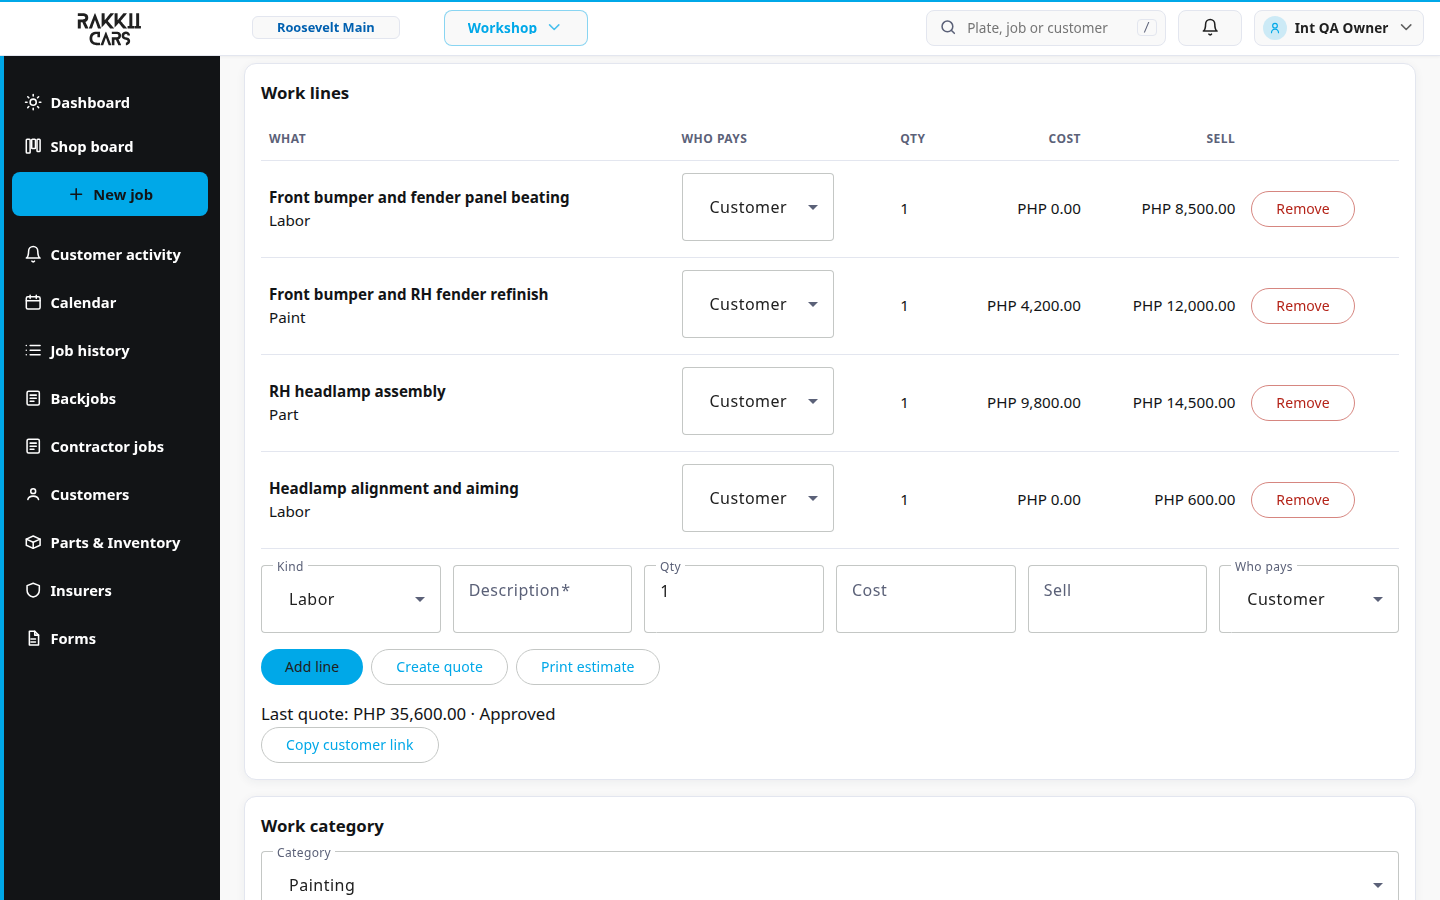
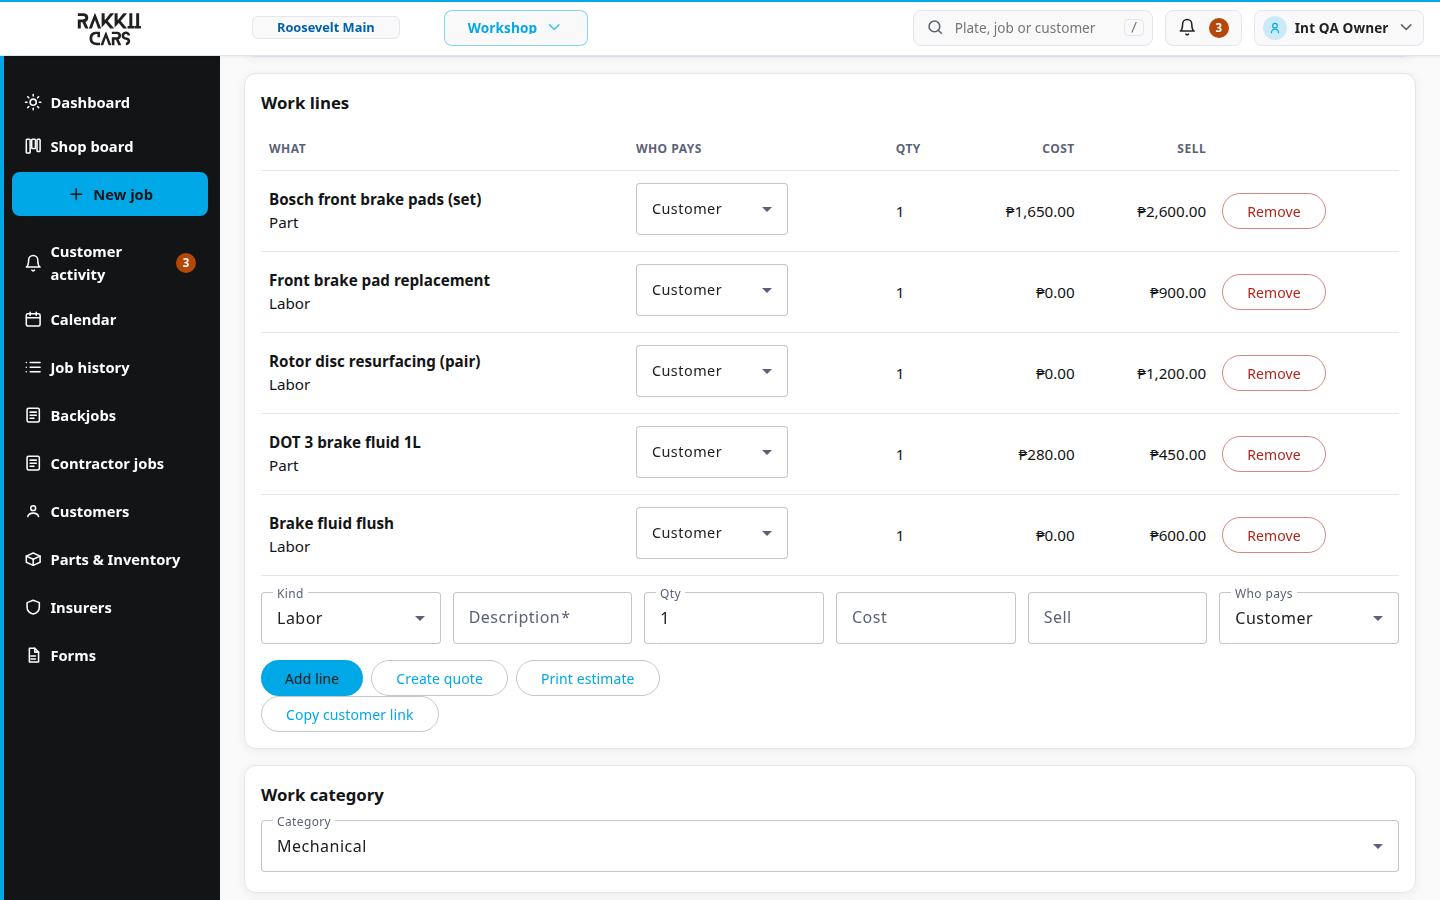
docs: retake screenshots for the Oct 31 changes
- 10 retaken on int with the latest ops build: dashboard, shop board,
  Parts stock, under-repair header, work lines, Pay money and down
  payment, Release checklist, insurance Release tab, technician job
  view and the phone QC photo tiles.
- 4 new: Job history (Done / Released · not done, Progress), a released
  job's status, Not done yet and steps, the More papers menu, and the
  board's What's left pop-up.
- Captions and the screenshot checklist match; Job history's filter is
  described as the Status dropdown it is.

diff --git a/docs/public/screenshots/README.md b/docs/public/screenshots/README.md
@@ -15,14 +15,15 @@ To add or refresh a screenshot:
 - [x] `01-welcome-and-navigation/01-sign-in.png` — Rakkii Ops sign-in page (Email, Password, Sign in).
 - [x] `01-welcome-and-navigation/02-hub-switcher.png` — hub switcher open, showing Workshop, Sales, Finance, HR, Admin, Me.
 - [x] `01-welcome-and-navigation/03-branch-switcher.png` — Shop settings with the Shop picker (the top-bar shop switcher appears only when you own more than one shop).
+- [x] `01-welcome-and-navigation/04-job-history.png` — Job history with Done and Released · not done labels and the Progress column.
 
 ## 02-technician-daily-guide
 
 - [x] `02-technician-daily-guide/01-clock-in.png` — Time clock with Clock in and Today's punches.
 - [x] `02-technician-daily-guide/02-my-jobs.png` — My jobs with "Assigned to me" and "Other jobs".
-- [x] `02-technician-daily-guide/05-tech-job.png` — Technician view of a job: Work and Files tabs, next-step banner and Send to QC.
+- [x] `02-technician-daily-guide/05-tech-job.png` — Technician view of a job: status banner, steps bar, next-step banner, Send to QC, and the Work and Files tabs.
 - [x] `02-technician-daily-guide/03-bay-checklist.png` — Bay checklist with ticked and open steps.
-- [x] `02-technician-daily-guide/04-qc-photos.png` — QC photos card with Front, Rear, Left side (LS), Right side (RS) slots.
+- [x] `02-technician-daily-guide/04-qc-photos.png` — QC photos card on a phone: four ticked angle tiles, Show photos and Replace a photo.
 
 ## 03-staff-self-service-me-hub
 
@@ -38,11 +39,13 @@ To add or refresh a screenshot:
 
 - [x] `05-lane-1-private-walk-in-jobs/01-intake-checklist.png` — Vehicle intake checklist with car panel diagram.
 - [x] `05-lane-1-private-walk-in-jobs/04-new-job.png` — New job form with Customer, Vehicle and Work filled.
-- [x] `05-lane-1-private-walk-in-jobs/05-work-lines.png` — Work lines card with one labor line, Who pays, Qty, Cost and Sell.
+- [x] `05-lane-1-private-walk-in-jobs/05-work-lines.png` — Work lines card with labor and part lines, Who pays, Qty, Cost and Sell.
 - [x] `05-lane-1-private-walk-in-jobs/02-portal-approve.png` — Customer Portal pay page with Approve estimate / Decline estimate.
-- [x] `05-lane-1-private-walk-in-jobs/06-under-repair-qc-gate.png` — Job header after Start work: Under repair, Send to QC as the main button, Ready for pickup locked.
-- [x] `05-lane-1-private-walk-in-jobs/07-pay-money.png` — Pay tab Money card after the final payment: Customer owes PHP 0.00.
-- [x] `05-lane-1-private-walk-in-jobs/03-release-checklist.png` — Release tab with Keys logged, Documents in / out, Customer signed release.
+- [x] `05-lane-1-private-walk-in-jobs/06-under-repair-qc-gate.png` — Job header after Start work: Under repair banner, Step 3 of 7, Send to QC as the main button, Ready for pickup locked.
+- [x] `05-lane-1-private-walk-in-jobs/07-pay-money.png` — Pay tab Money card after the final payment (Customer owes PHP 0.00) and the Down payment card.
+- [x] `05-lane-1-private-walk-in-jobs/08-job-progress.png` — A released job: status banner, Not done yet list, steps opened with dates, Mark as done and tab marks.
+- [x] `05-lane-1-private-walk-in-jobs/09-more-papers.png` — More papers menu open in the Job order box.
+- [x] `05-lane-1-private-walk-in-jobs/03-release-checklist.png` — Release tab of a Ready job: QC photos, customer balance, Keys logged, Documents in / out, Customer signed release.
 
 ## 06-lane-2-insurance-claims-and-loa
 
@@ -66,8 +69,9 @@ To add or refresh a screenshot:
 
 ## 10-workshop-operations-board-calendar-backjobs-contractors
 
-- [x] `10-workshop-operations-board-calendar-backjobs-contractors/03-dashboard.png` — Owner Dashboard with Priority jobs suggestions, Announcements and today's tiles.
-- [x] `10-workshop-operations-board-calendar-backjobs-contractors/01-shop-board.png` — Shop board columns view with filters.
+- [x] `10-workshop-operations-board-calendar-backjobs-contractors/03-dashboard.png` — Owner Dashboard: Announcements, Priority jobs, Today's appointments and the five figures.
+- [x] `10-workshop-operations-board-calendar-backjobs-contractors/01-shop-board.png` — Shop board columns view with filters and What's left buttons.
+- [x] `10-workshop-operations-board-calendar-backjobs-contractors/04-whats-left.png` — What's left pop-up for a job under repair.
 - [x] `10-workshop-operations-board-calendar-backjobs-contractors/02-contractor-monitor.png` — Contractor jobs monitor with overdue filter.
 
 ## 11-hr-payroll-kiosk-announcements-documents

diff --git a/docs/chapters/05-lane-1-private-walk-in-jobs.md b/docs/chapters/05-lane-1-private-walk-in-jobs.md
@@ -56,6 +56,8 @@ The top of every job tells you where it is without opening each tab:
 
 Technicians see no money in the banner, the steps or the list.
 
+![A released job: status banner, Not done yet list, the steps opened with their dates, Mark as done and the tab marks](/screenshots/05-lane-1-private-walk-in-jobs/08-job-progress.png)
+
 ### Money wording {#money-wording}
 
 The customer's balance reads differently as the job moves, so a fresh job never looks like a debt:
@@ -112,7 +114,7 @@ The appointment day (when the car comes in) is separate from the target date. Se
 
 If the parts need supplier prices first, tick **Needs canvass** / **Needs parts buy** on **Overview** (retail jobs can skip both) and see [Chapter 9](/chapters/09-parts-inventory-canvass-restock-payables).
 
-![Work lines card with one labor line, Who pays, Qty, Cost and Sell](/screenshots/05-lane-1-private-walk-in-jobs/05-work-lines.png)
+![Work lines card with labor and part lines, Who pays, Qty, Cost and Sell](/screenshots/05-lane-1-private-walk-in-jobs/05-work-lines.png)
 
 ### Customer estimate and margin warning (Quote tab)
 1. Open the **Quote** tab. The **Customer estimate** shows sell prices only. If the job has no lines yet, the tab says to add work and parts lines first, with a **Go to Work tab** button.
@@ -166,7 +168,7 @@ The **Down payment** card on the Pay tab says in plain words whether the deposit
 3. Apply a **Bay checklist** template (**Template › Apply template**) so the technician has steps to tick.
 4. Press **Start work**. Status: **Under repair**. The banner changes to "Finish work and send to QC."
 
-![Job header after Start work: Under repair, Send to QC as the main button, Ready for pickup locked](/screenshots/05-lane-1-private-walk-in-jobs/06-under-repair-qc-gate.png)
+![Job header after Start work: Under repair banner, Step 3 of 7, Send to QC as the main button, Ready for pickup locked](/screenshots/05-lane-1-private-walk-in-jobs/06-under-repair-qc-gate.png)
 
 ## 5.7 Bay checklist and QC photos
 
@@ -188,6 +190,8 @@ The **Job order** box (Work tab) has two buttons instead of a long row:
   - **For the shop** — Gate pass, QC summary, Insurer invoice, Release of Claim (insurance jobs)
   - **Forms to fill** — Pickup/Delivery waiver, Intake checklist
 
+![More papers menu open: For the customer, For the shop and Forms to fill, with the recorded dates under it](/screenshots/05-lane-1-private-walk-in-jobs/09-more-papers.png)
+
 The Quote, Pay and Release tabs keep their own print buttons for the paper you need at that step. On the Pay tab, the on-screen paper previews are folded behind **Show … preview** buttons; printing is the same.
 
 ::: tip Printing from a phone
@@ -208,7 +212,7 @@ Posting an invoice does not change the job status.
 2. Press **Fill customer balance** to enter exactly what is left, pick the **Method**, and **Apply to invoice**.
 3. **Record payment** and confirm ("Record PHP 800.00 from the customer?"). **Customer owes** should read PHP 0.00 and the banner changes to "Release the car."
 
-![Pay tab Money card after the final payment: Customer owes PHP 0.00](/screenshots/05-lane-1-private-walk-in-jobs/07-pay-money.png)
+![Pay tab Money card after the final payment (Customer owes PHP 0.00) and the Down payment card](/screenshots/05-lane-1-private-walk-in-jobs/07-pay-money.png)
 
 By default the car is held until the customer balance is zero ("Hold the car until the customer has paid: Yes" on Overview).
 
@@ -239,7 +243,7 @@ Before ticking **Customer signed release**, confirm the shop's hand-over steps: 
 | Release checks not ticked | "Keys logged, documents in/out and customer signed must all be ticked…" | Tick, or owner override + reason |
 | Invoices not posted (if the job holds for invoices) | "Post the customer invoice before release." | Post, or owner reason "Reason to release before invoices are posted" |
 
-![Release tab with Keys logged, Documents in / out, Customer signed release](/screenshots/05-lane-1-private-walk-in-jobs/03-release-checklist.png)
+![Release tab of a Ready job: QC photos, customer balance, Keys logged, Documents in / out, Customer signed release](/screenshots/05-lane-1-private-walk-in-jobs/03-release-checklist.png)
 
 ## 5.11 Mark the job as done
 

diff --git a/docs/chapters/10-workshop-operations-board-calendar-backjobs-contractors.md b/docs/chapters/10-workshop-operations-board-calendar-backjobs-contractors.md
@@ -12,6 +12,8 @@ The Kanban view of every car in play. Each card shows the plate, a subtitle (typ
 - Each card has a **What's left** button. It opens a pop-up with the job's status, the open items (up to 10 checklist items by name, balances, unpaid suppliers) and all seven steps, plus **Open job**. Tap anywhere else on the card to open the job.
 - On an iPad held upright the lanes show two side by side.
 
+![What's left pop-up for a job under repair: status, To do list and the seven steps](/screenshots/10-workshop-operations-board-calendar-backjobs-contractors/04-whats-left.png)
+
 | Lane | Statuses in it |
 |---|---|
 | **New** | New inquiry, Booked |
@@ -52,9 +54,9 @@ The search box in the top bar (**Plate, job or customer**, shortcut <kbd>/</kbd>
 ### Customer activity
 **Workshop › Customer activity** lists what customers did on the website, pay link or portal: web bookings, quote requests, estimates approved or declined, extras approved, payment screenshots and payment notes. The bell in the top bar shows how many are unseen; once anyone at the desk marks an item seen, it leaves the count for everyone. Open an item to go to the job.
 
-![Owner Dashboard with Priority jobs suggestions, Announcements and today's tiles](/screenshots/10-workshop-operations-board-calendar-backjobs-contractors/03-dashboard.png)
+![Owner Dashboard: Announcements, Priority jobs, Today's appointments and the five figures](/screenshots/10-workshop-operations-board-calendar-backjobs-contractors/03-dashboard.png)
 
-![Shop board columns view with filters](/screenshots/10-workshop-operations-board-calendar-backjobs-contractors/01-shop-board.png)
+![Shop board columns view with filters and a What's left button on each card](/screenshots/10-workshop-operations-board-calendar-backjobs-contractors/01-shop-board.png)
 
 ## 10.2 Appointment & target-date calendar (`/workshop/calendar`)
 

diff --git a/docs/chapters/01-welcome-and-navigation.md b/docs/chapters/01-welcome-and-navigation.md
@@ -99,9 +99,12 @@ The choice is saved on that device and also applies to the sign-in page.
 ## 1.6 Finding things fast
 
 - **Top bar search** (**Plate, job or customer**, press <kbd>/</kbd> to jump to it) finds any job by plate, job reference or customer, open or closed, from any hub.
-- **Job history** (`/workshop/jobs`) searches by plate, customer or reference, with **Created from / Created to** dates and the filters **All**, **Released · not done** and **Done**.
+- **Job history** (`/workshop/jobs`) searches by plate, customer or reference, with **Created from / Created to** dates and a **Status** filter: **All**, **Released · not done** or **Done**.
   - **Released · not done** (amber) means the car is out but something is still open, for example an insurer payment. **Done** means nothing is left.
   - The **Progress** column shows how far each job is ("6 of 7"). On a phone each job shows as a card.
+
+![Job history with Done and Released · not done labels and the Progress column](/screenshots/01-welcome-and-navigation/04-job-history.png)
+
 - Every job opens in the **job workspace** (`/workshop/jobs/:id`) with tabs: **Overview, Quote, Canvass, Parts buy, Work, Insurance, Pay, Files, Release**. Some tabs only show when they apply (for example **Insurance** only on insurance jobs; **Canvass** and **Parts buy** only when the job needs them).
 - Each job shows a **status banner**, a **steps bar** and a blue **next-step banner** that says what to do now ([Chapter 5](/chapters/05-lane-1-private-walk-in-jobs#progress)).
 - Prints open the print dialog on a computer. On a phone they save as a PDF named after the paper and plate ([Chapter 5](/chapters/05-lane-1-private-walk-in-jobs#printing)).

diff --git a/docs/chapters/02-technician-daily-guide.md b/docs/chapters/02-technician-daily-guide.md
@@ -66,7 +66,7 @@ Under the plate a blue banner tells you what to do now:
 | Waiting for parts | "Mark parts in when they arrive." |
 | On hold | "On hold. Check with the desk before resuming work." |
 
-![Technician view of a job: Work and Files tabs, next-step banner and Send to QC](/screenshots/02-technician-daily-guide/05-tech-job.png)
+![Technician view of a job: status banner, steps bar, next-step banner, Send to QC, and the Work and Files tabs](/screenshots/02-technician-daily-guide/05-tech-job.png)
 
 ### Your status buttons
 A technician has only these moves. Everything else (start work, ready for pickup, release) belongs to the desk.
@@ -162,7 +162,7 @@ A car cannot move to **Ready for pickup** or be **Released** until it has the re
 
 Only the owner (or admin) can skip photos, with a written **QC override reason**.
 
-![QC photos card with Front, Rear, Left side (LS), Right side (RS) slots](/screenshots/02-technician-daily-guide/04-qc-photos.png)
+![QC photos card on a phone: four ticked angle tiles, Show photos and Replace a photo](/screenshots/02-technician-daily-guide/04-qc-photos.png)
 
 ## 2.9 Checking the calendar and forms
 
